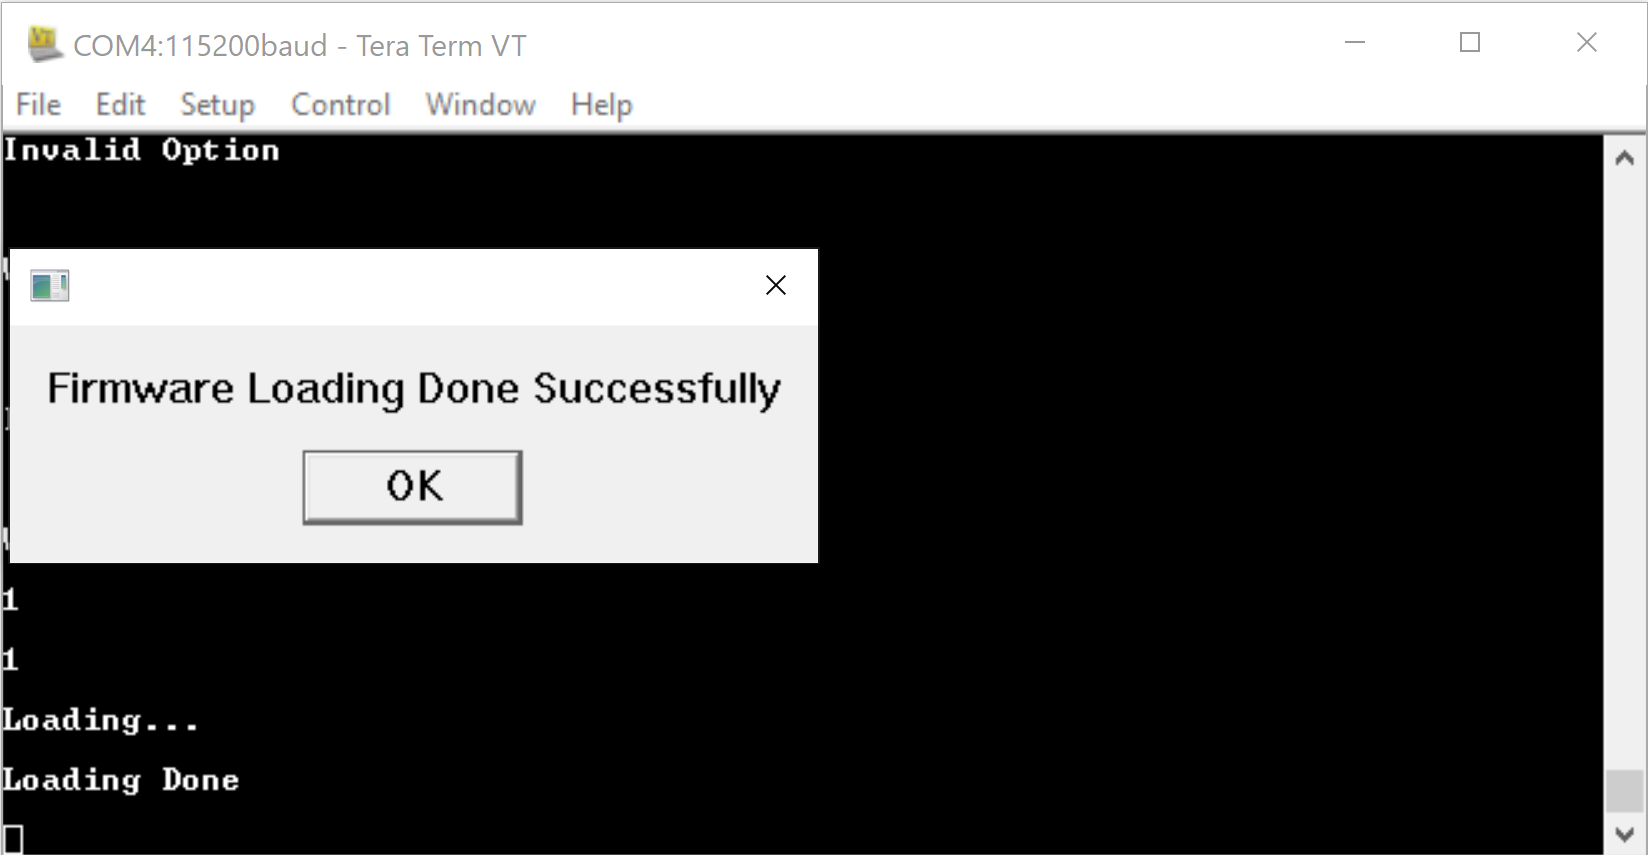
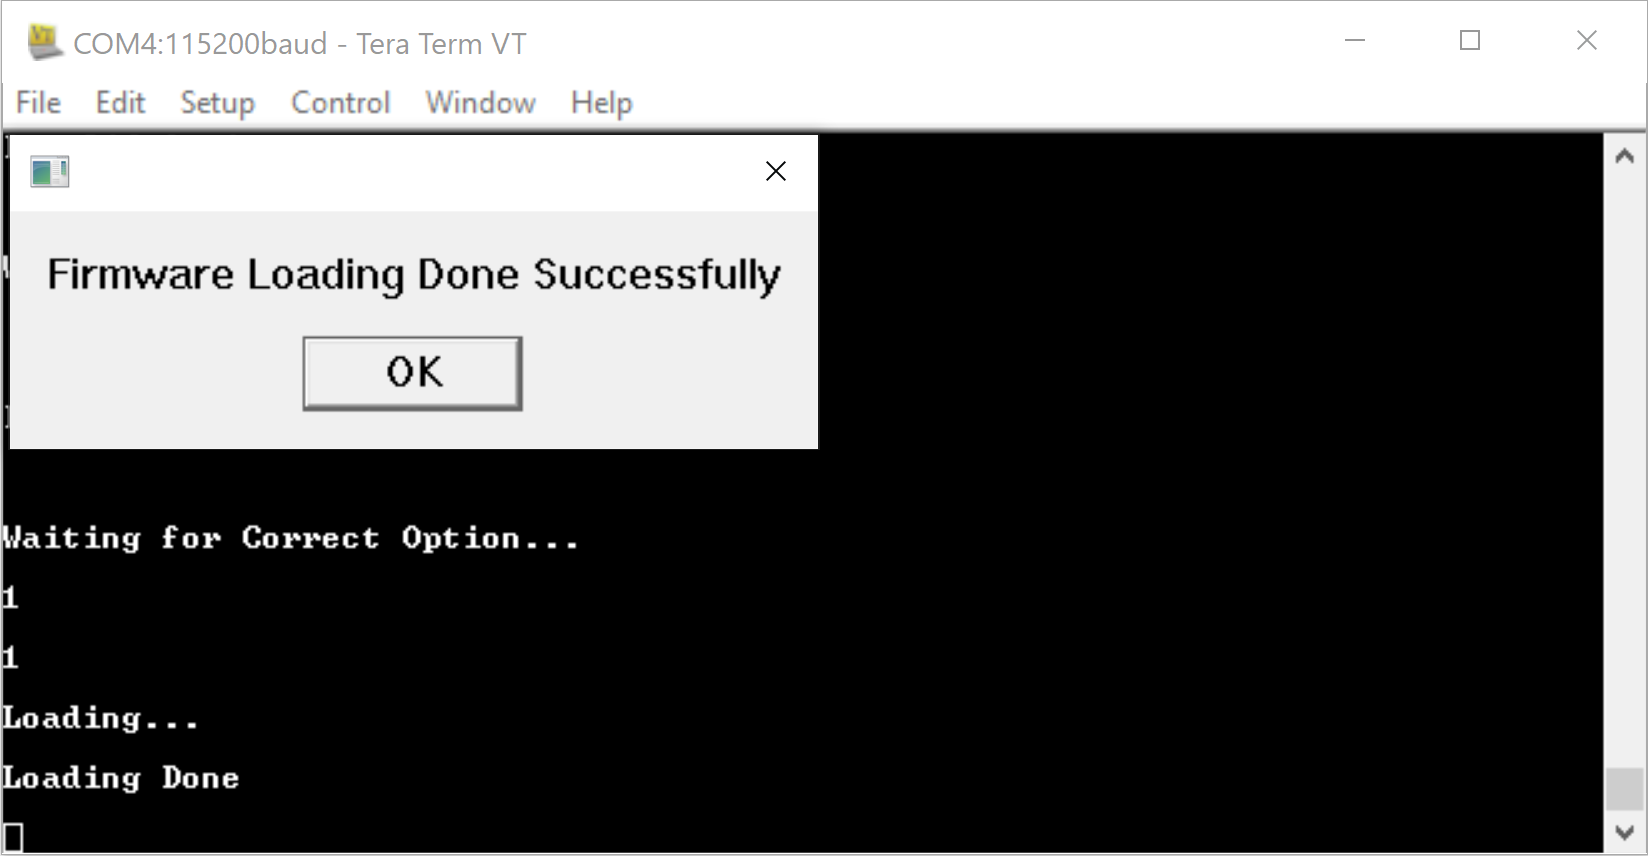
SPP loop back test

Changed region(s): [[0.0, 0.0, 1.0, 1.0], [0.0, 0.5164, 0.4951, 0.6682], [0.0, 0.7593, 0.0309, 0.7897]]

diff --git a/iot-pa-bt-spp_loop_back_test/readme.md b/iot-pa-bt-spp_loop_back_test/readme.md
@@ -37,7 +37,7 @@ Ensure that both the RS9116 NCP modules are plugged into your computer/laptop an
 
 ![Introduction of spp-secondary](./resources/spp-secondary-start.png)
 
-**STEP 5.** Initially, the RS9116 NCP module bootup options are executed, the firmware is loaded and the corresponding dialogue window will appear as below.  
+**STEP 5.**  Initially, the ABRD process starts and you will see a pop-up with the message saying firmware is loaded as below.  
 
 ![Bootup options execution](./resources/firmware-loding-secondary.png)
 
@@ -57,7 +57,7 @@ Ensure that both the RS9116 NCP modules are plugged into your computer/laptop an
 
 ![RS9116W device in discoverable and connectable mode](./resources/spp-secondary-command-execute.png)
 
-**STEP 8.** Connect the second RS9116 NCP module to the same PC and open the TeraTerm terminal and open the device port.
+**STEP 8.** Connect the second RS9116 NCP module to the same PC and open another TeraTerm terminal later select and open the appropriate com port.
 
 **STEP 9.**  In the Tera Term menu, select `Control->Macro`.
 
@@ -71,17 +71,17 @@ Ensure that both the RS9116 NCP modules are plugged into your computer/laptop an
 
 ![Introduction of spp-secondary](./resources/spp-main-start-4.png)
 
-**STEP 12.** Initially, the RS9116 NCP module bootup options are executed, the firmware is loaded and the corresponding dialogue window will appear as below.  
+**STEP 12.**  Initially, the ABRD process starts and you will see a pop-up with the message saying firmware is loaded as below.
 
 ![Bootup options execution](./resources/firmware-loding-main-5.png)
 
-**STEP 13.**  After these commands are successful, the remote secondary device needs to be in connectable mode. And once it will be in connectable mode, the user needs to give the bond command. For this BD address of the RS9116 NCP spp_secondary device needs to be entered here.
+**STEP 13.**  After these commands are executed successfully, the remote secondary device needs to be in a connectable mode. And once it will be in connectable mode, the user needs to give the bond command. For this BD address of the RS9116 NCP spp_secondary device needs to be entered here.
 
 Note :- Address should be in following format "XX-XX-XX-XX-XX-XX".
 
 ![remote BD Address input](./resources/spp-main-address-6.png)
 
-**STEP 14.** By entering the RS9116 NCP spp_secondary mac-address itself, RS9116 NCP spp_main will send the "bond" command. Later, respective command menu will pop up on both the "spp_secondary" side and the "spp_main" side.
+**STEP 14.** By entering the RS9116 NCP spp_secondary BD address itself, RS9116 NCP spp_main will send the "bond" command. Later, the respective command menu will pop up on both the "spp_secondary" side and the "spp_main" side.
 
 1) Here the below picture is for the "spp_secondary" one.
 
@@ -91,7 +91,7 @@ Note :- Address should be in following format "XX-XX-XX-XX-XX-XX".
 
 ![Command menu for main](./resources/spp-main-pincode-8.png)
 
-**STEP 15.** While opening the command pop-ups on both the "spp_main" & "spp_secondary" sides. Give the "Userlinkkey Response" from the "spp_main" side for the "userlinkkey event on main" and likewise same for "spp_secondary" side for the "userlinkkey event on secondary".
+**STEP 15.** While opening the command pop-ups on both the "spp_main" & "spp_secondary" sides, Give the "Userlinkkey Response" from the "spp_main" side for the "userlinkkey event" on spp_main and likewise same for "spp_secondary" side for the "userlinkkey event" on spp_secondary.
 
 1) Below picture is for spp_main.
 
@@ -120,7 +120,7 @@ from the "spp_main" side. Likewise, parallelly user should give the "userpincode
 
 ![Userpincode response from secondary](./resources/spp-secondary-picode-9.png)
 
-**STEP 17.** After all successful command exchanges between the RS9116 NCP spp_main & RS9116 NCP spp_secondary, the user should give the "spp_connect" command from the "spp_main" side, then the connection should be successful.
+**STEP 17.** After successful command exchanges between the RS9116 NCP spp_main & RS9116 NCP spp_secondary, the user should give the "spp_connect" command from the "spp_main" side, then the connection should be successful.
 
 1) Below picture is for spp_main.
 
@@ -132,7 +132,7 @@ from the "spp_main" side. Likewise, parallelly user should give the "userpincode
 
 ![spp_secondary connected](./resources/spp-secondary-spp-connected-11.png)
 
-**STEP 18.** Both the main and secondary are connected. Now, the user needs to send the data from the "spp_main" side to "spp_secondary" by giving the "send_data" from "spp_main".
+**STEP 18.** Both the spp_main and spp_secondary are connected. Now, the user needs to send the data from the "spp_main" side to "spp_secondary" by giving the "send_data" from "spp_main".
 
 ![Send_data_from_main](./resources/spp-main-send-data-13.png)
 
